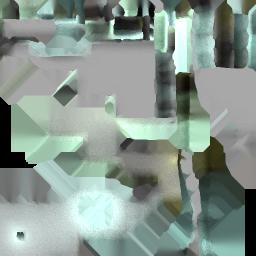
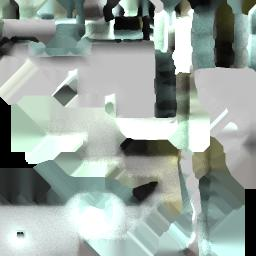
[changed] assets for better lighting
git-svn-id: http://libgdx.googlecode.com/svn/trunk@2154 6c4fd544-2939-11df-bb46-9574ba5d0bfa

diff --git a/extensions/model-loaders/model-loaders/src/com/badlogic/gdx/graphics/g3d/test/QbobViewer.java b/extensions/model-loaders/model-loaders/src/com/badlogic/gdx/graphics/g3d/test/QbobViewer.java
@@ -36,7 +36,7 @@ public class QbobViewer implements ApplicationListener {
 			lightMaps[3] = new Texture(Gdx.files.internal("data/world_blobbie_lm_04.jpg"), true);
 		//}
 		
-		diffuse = new Texture(Gdx.files.internal("data/world_blobbie_blocks_512.png"), true);
+		diffuse = new Texture(Gdx.files.internal("data/world_blobbie_blocks.png"), true);
 		
 							
 									
